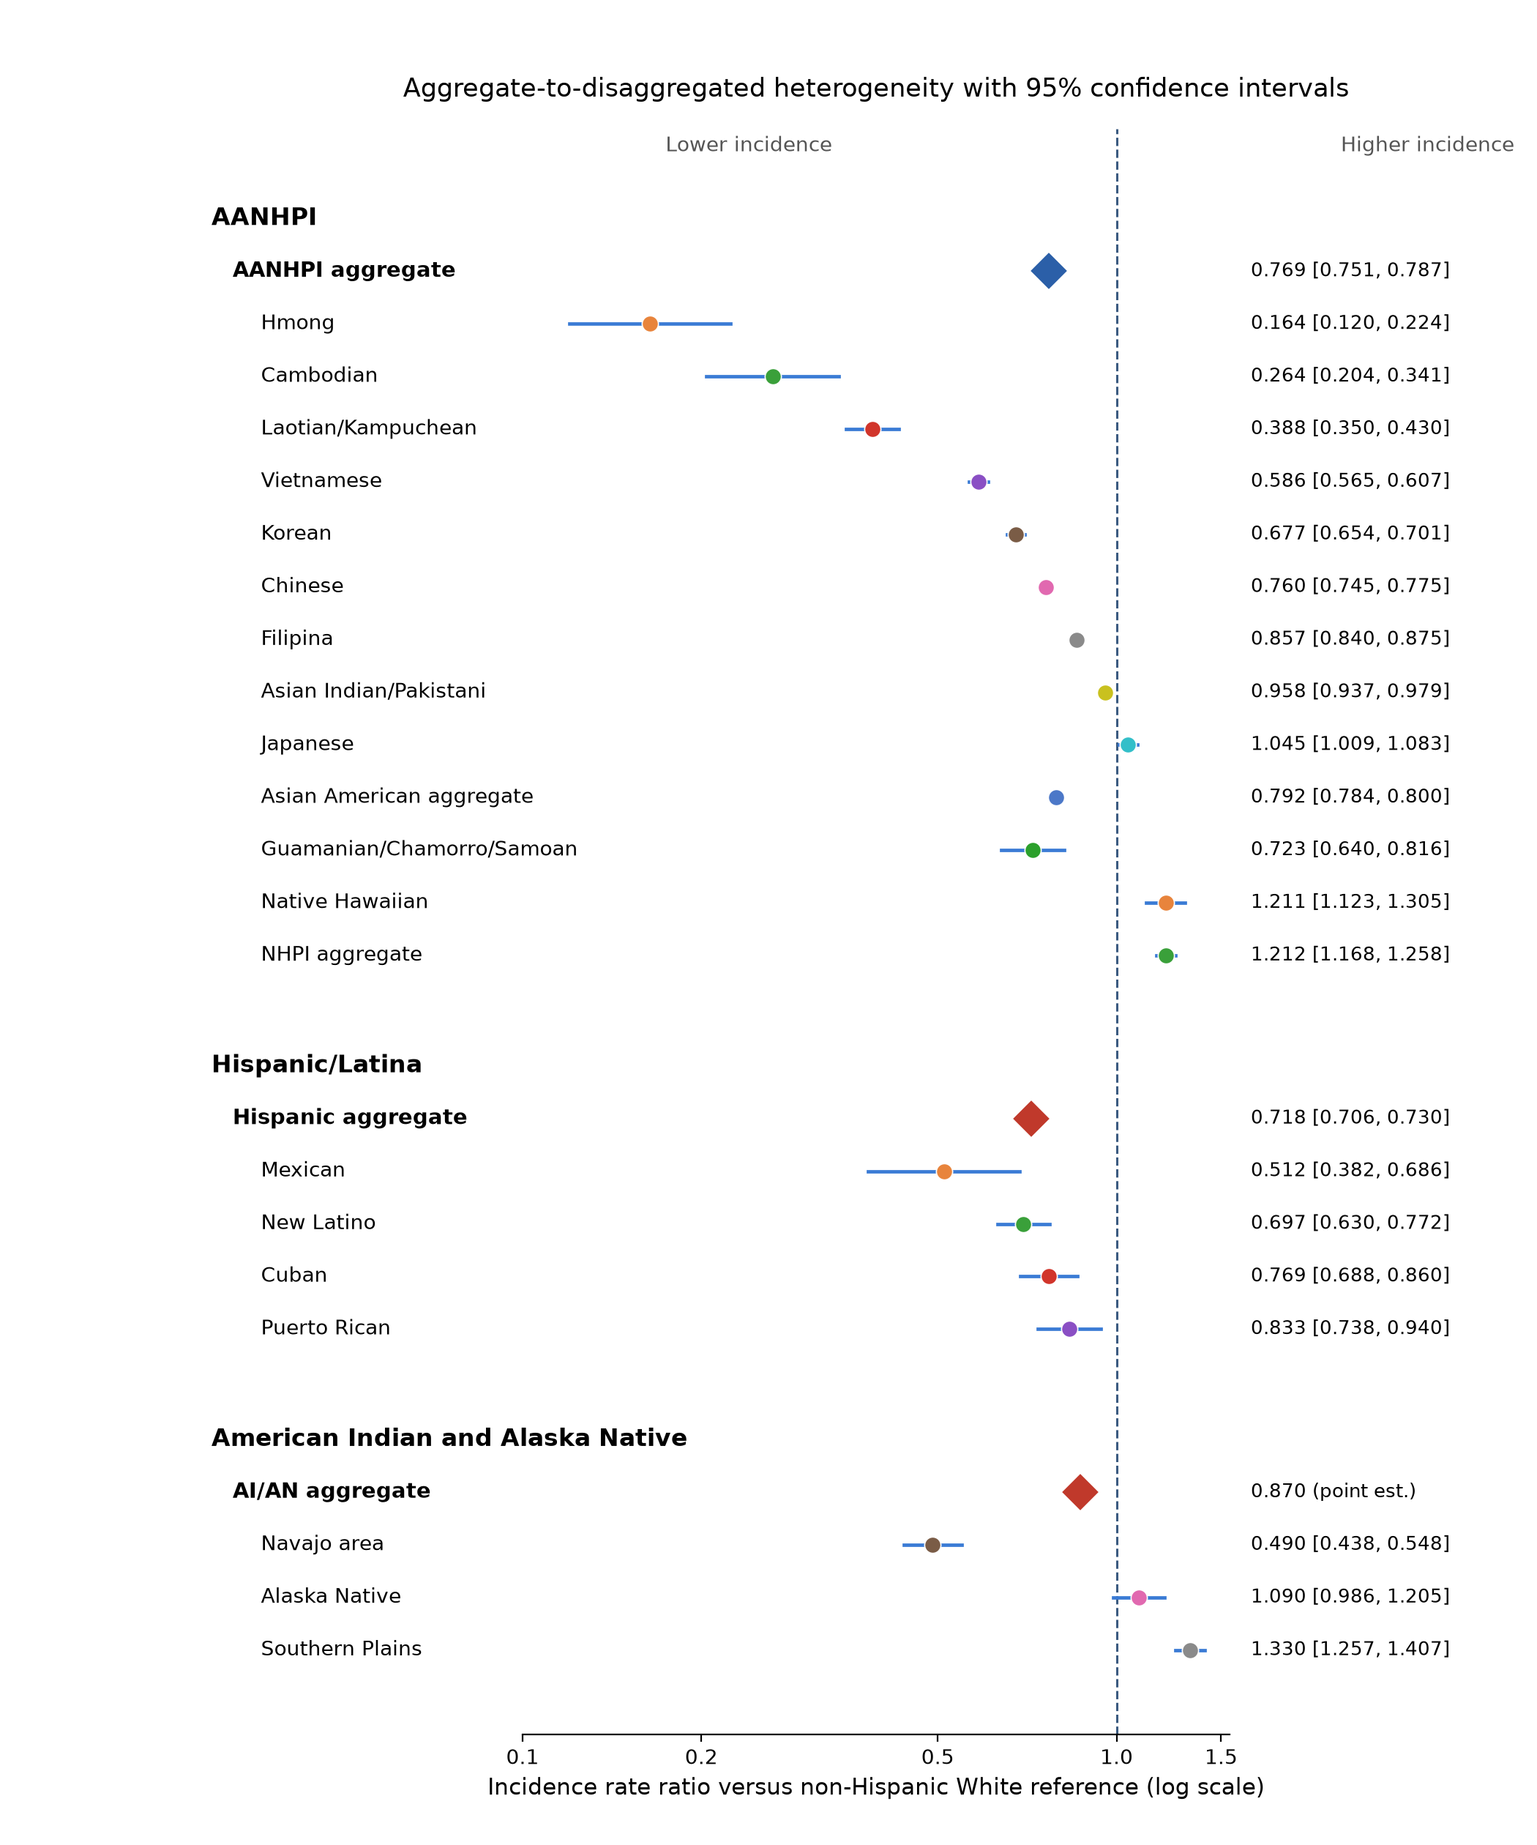
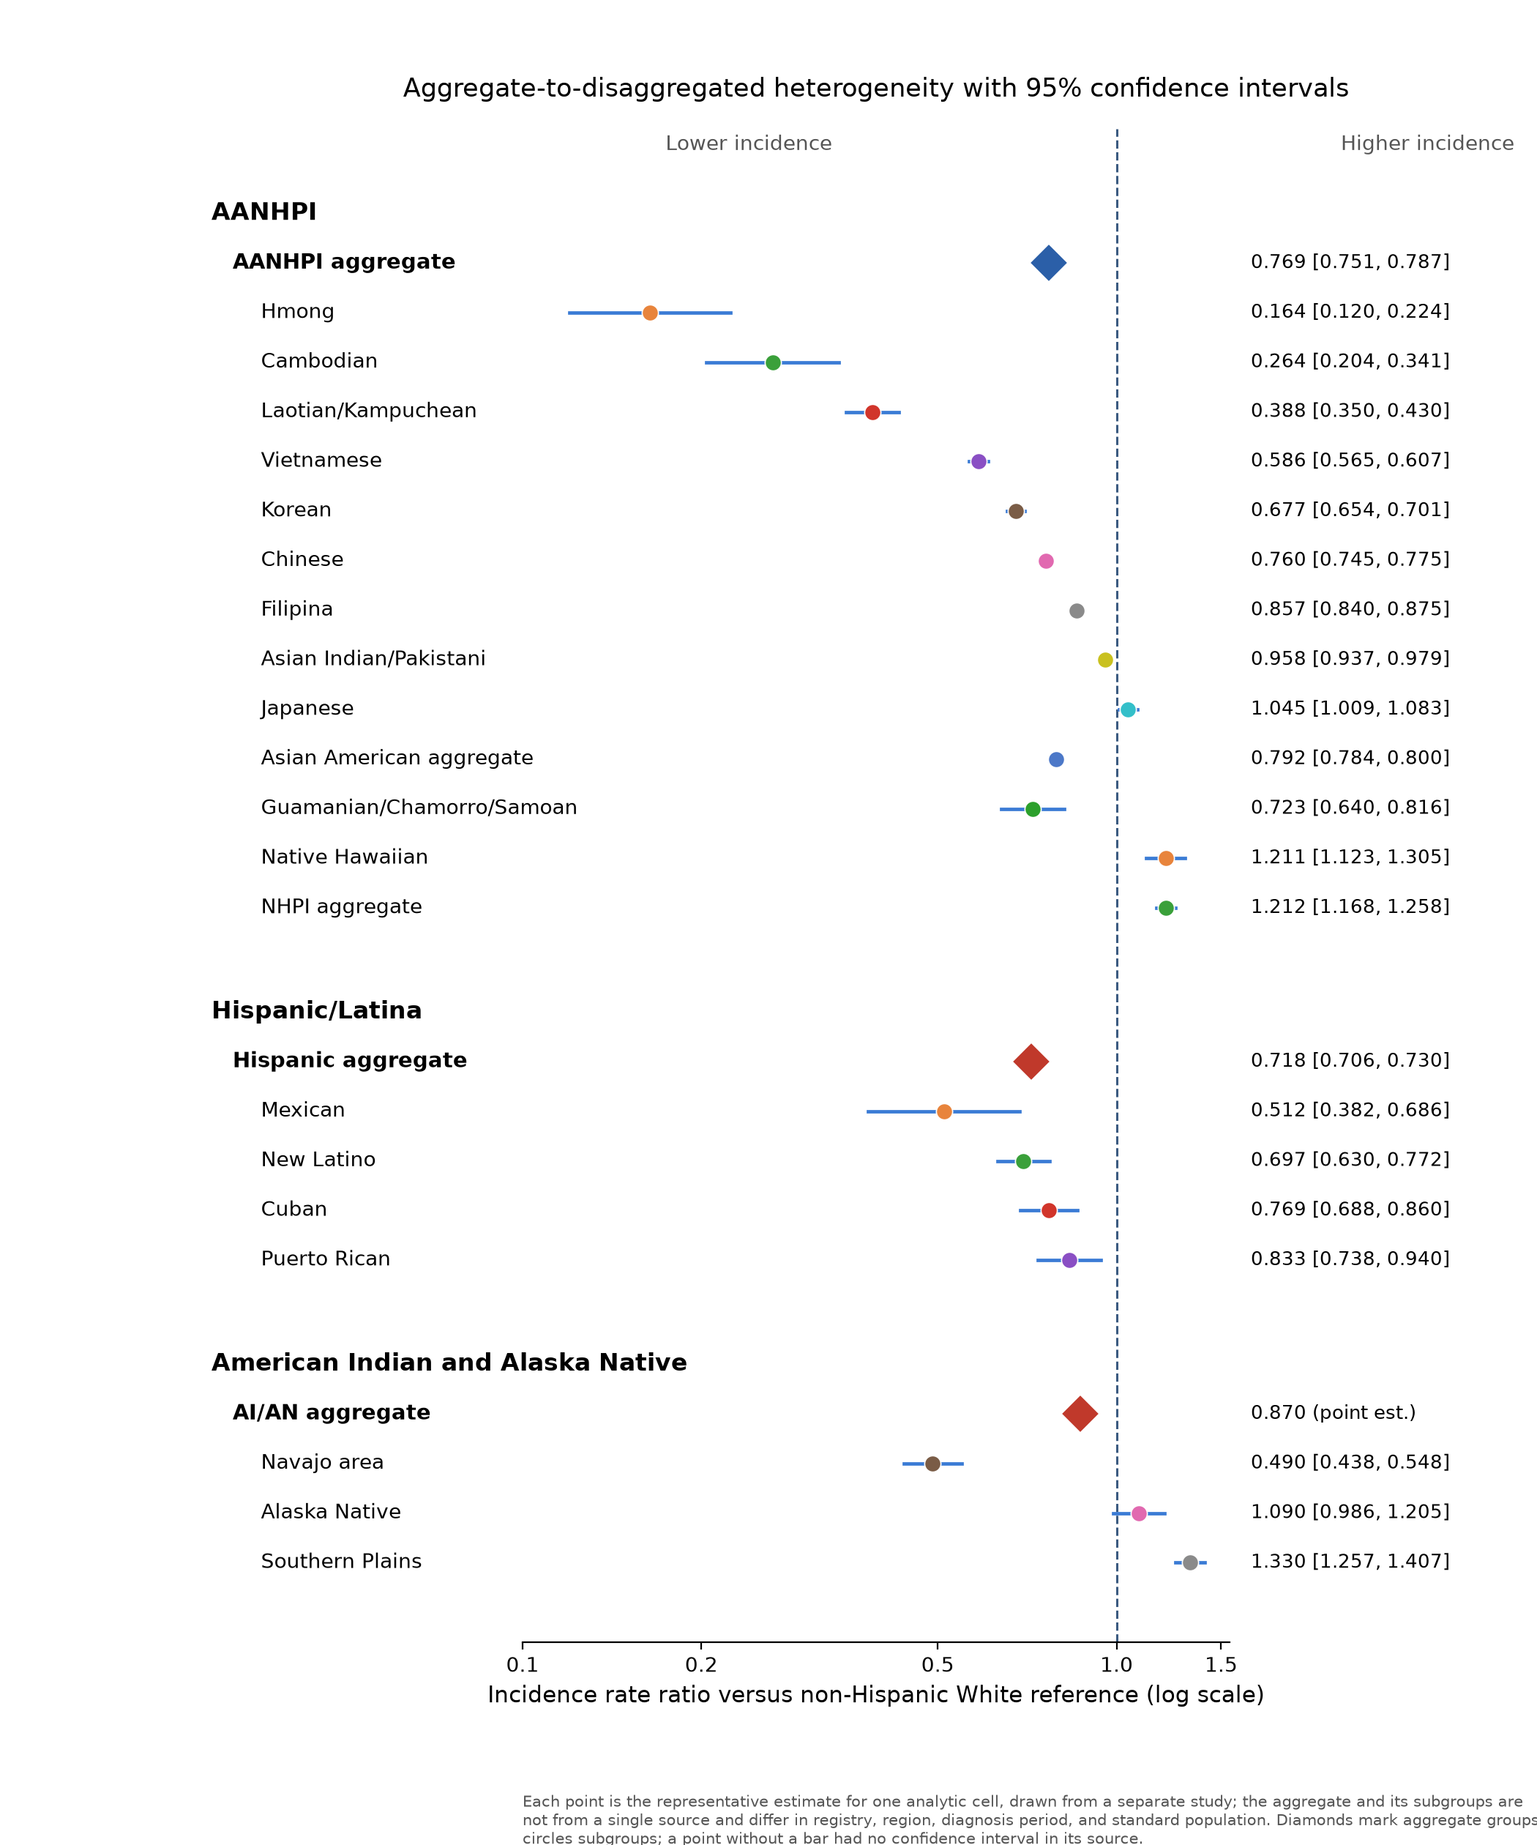
Feedback4 item 5: comparison limits and sensitivity interpretation
- Rebut "standard population cancels": Discussion now states that expressing
  incidence as an NHW ratio does not make cells commensurable — differences in
  standard population, age structure, registry region, and diagnosis period
  remain embedded in the ratios because the cells come from different studies;
  a ratio removes the shared standardization only within a cell, not across cells.
- "Contemporary benchmark" reconsidered: Methods now calls the representative a
  single population-based benchmark, not a contemporary one, noting diagnosis
  periods vary by cell and some representatives predate 2005 (Middle Eastern
  1988-2004; Cambodian/Native Hawaiian 1998-2002; Hispanic-origin 1999-2001).
- Figure 2 heterogeneous sources: added a figure note and a Discussion sentence
  that each aggregate and subgroup point is a separate study's representative,
  differing in registry, region, and period — a range of published estimates,
  not a within-study decomposition.
- Japanese direction change explained in text: the SEER-21 representative (ref 27,
  moderate RoB) puts Japanese incidence just above NHW (1.05); restricting to
  low-RoB studies substitutes an eight-state SEER+NPCR estimate (ref 49) just
  below (0.95). Noted the sign of a near-null difference is not robust, and that
  such changes reflect period/region/comparator differences, not RoB alone.

Regenerated Fig_forest_main.png and assembled manuscript; all crosschecks pass.
[…]

diff --git a/meta_agents/search_v2/forest_main.py b/meta_agents/search_v2/forest_main.py
@@ -113,6 +113,13 @@ ax.text(0.32, 1.28, "Lower incidence", transform=trans, fontsize=10, color="#555
 ax.text(1.28, 1.28, "Higher incidence", transform=trans, fontsize=10, color="#555", ha="center")
 ax.set_title("Aggregate-to-disaggregated heterogeneity with 95% confidence intervals",
              fontsize=12.5, pad=16)
+fig.text(0.34, 0.028,
+         "Each point is the representative estimate for one analytic cell, drawn from a separate "
+         "study; the aggregate and its subgroups are\nnot from a single source and differ in "
+         "registry, region, diagnosis period, and standard population. Diamonds mark aggregate "
+         "groups,\ncircles subgroups; a point without a bar had no confidence interval in its source.",
+         fontsize=7.6, color="#555", ha="left", va="top")
+fig.subplots_adjust(bottom=0.11)
 fig.savefig(os.path.join(OUT, "Fig_forest_main.png"), dpi=200)
 plt.close(fig)
 print("wrote outputs/Fig_forest_main.png")

diff --git a/meta_agents/search_v2/outputs/Manuscript_full.md b/meta_agents/search_v2/outputs/Manuscript_full.md
@@ -134,7 +134,7 @@ statistically independent. Rather than pool such non-independent
 estimates, the analytic unit was the **analytic cell**—each racial or ethnic group crossed with one
 analytic dimension (overall incidence, a disaggregated subgroup, a receptor-defined subtype, or an
 age band)—and one
-**representative population-based estimate** (a contemporary benchmark) was selected for each cell. Each estimate was assigned to a registry "family," and the registry, region, diagnosis period,
+**representative population-based estimate** (a single population-based benchmark for that cell, not a contemporary one—diagnosis periods vary by cell, and some representatives predate 2005) was selected for each cell. Each estimate was assigned to a registry "family," and the registry, region, diagnosis period,
 age range, group, and outcome of each study were tabulated so that overlaps within a cell could be
 seen (Supplementary Table 4). Within a cell, the representative was chosen by applying, in order:
 the broadest population coverage (USCS > NAACCR > SEER-national > state or regional), then a
@@ -320,7 +320,11 @@ subgroups they contain. Among Asian American subgroups the IRR ranged from 0.16 
 Japanese women; Native Hawaiian women (1.21) and the NHPI
 aggregate (1.21) exceeded the NHW rate; Hispanic incidence rose from 0.51 in Mexican women to 0.83
 in Puerto Rican women; and AI/AN incidence ranged from 0.49 in the Navajo area to 1.33 in the
-Southern Plains, against a national AI/AN aggregate of 0.87 (Figure 2). This pattern is consistent with earlier disaggregated work and extends
+Southern Plains, against a national AI/AN aggregate of 0.87 (Figure 2). In Figure 2 each aggregate
+and each subgroup is the representative estimate from a separate study, placed on the common NHW
+scale for comparison; the points are not drawn from one source and differ in registry, region, and
+diagnosis period, so the figure shows the range of published estimates rather than a within-study
+decomposition. This pattern is consistent with earlier disaggregated work and extends
 it: Gomez and colleagues first documented the variation among Asian American subgroups,⁵ which the
 present estimates span over the most recent SEER-21 period;²⁷ the high burden in Native Hawaiian
 women echoes reports from Hawaii;²¹ the Hispanic gradient reproduces that described among
@@ -328,6 +332,19 @@ first-generation U.S. Hispanics;⁸ the AI/AN regional range and the low Navajo-
 prior regional and tribal analyses;¹⁰,³⁶,⁴⁰,⁴⁴ and the higher TNBC incidence in NHB women is
 concordant with prior subtype-specific work.²,²⁰ The relative ordering of groups also shifts with
 the outcome examined (Figure 3).
+
+For the subgroups whose incidence sits close to the NHW rate, which study represents the cell can
+change the direction of the small difference. Japanese women are the clearest example: the
+representative estimate, from a recent SEER-21 source,²⁷ places their overall
+incidence just above the NHW rate (1.05), but that study is at moderate risk of bias, and when the
+representative selection is restricted to low-risk-of-bias studies the cell is instead filled by an
+earlier eight-state SEER+NPCR estimate⁴⁹ that places it just below (0.95). The flip does not
+overturn the finding that Japanese incidence is near the NHW level, but it shows that the sign of a
+near-null difference is not robust for this subgroup. Such a change on restriction reflects more than
+risk of bias: the substituted studies also differ in diagnosis period, registry region, and
+comparator, and any of these can move a borderline estimate across 1.0. The changed and dropped
+cells in the sensitivity analyses (Supplementary Table 6) should be read in that light rather than as
+risk-of-bias effects alone.
 
 Two features of the underlying data shaped these estimates.
 First, unlinked registries undercount AI/AN cases, so the AI/AN estimates here draw on Indian
@@ -364,9 +381,14 @@ not examined.
 
 The review has limitations.
 Some rate ratios were computed from published age-standardized rates rather than reported directly,
-which can move a ratio slightly. Included studies differed in standard population and diagnosis period, limiting
-direct comparability, and a few older studies used a 1970 standard population (world or US) and one
-the 1960 Segi world standard. The review was restricted to
+which can move a ratio slightly. Expressing each group's incidence as a ratio to the NHW rate does
+not by itself make the estimates commensurable: because the cells are drawn from different studies,
+differences in standard population, underlying age structure, registry region, and diagnosis period
+remain embedded in the ratios and are not cancelled by the common comparator. A ratio removes the
+shared standard-population scaling only when its numerator and denominator come from the same
+source and standardization—which holds within each cell but not across cells. Included studies
+differed in standard population and diagnosis period, limiting cross-cell comparability, and a few
+older studies used a 1970 standard population (world or US) and one the 1960 Segi world standard. The review was restricted to
 U.S.-resident populations, so the estimates are not generalizable to countries that use a different
 White reference, different racial and ethnic categories, and different standard populations. Finally,
 estimates for the smallest subgroups rested on limited numbers, studies contributing only to the

diff --git a/meta_agents/search_v2/manuscript/Discussion_draft.md b/meta_agents/search_v2/manuscript/Discussion_draft.md
@@ -20,7 +20,11 @@ subgroups they contain. Among Asian American subgroups the IRR ranged from 0.16 
 Japanese women; Native Hawaiian women (1.21) and the NHPI
 aggregate (1.21) exceeded the NHW rate; Hispanic incidence rose from 0.51 in Mexican women to 0.83
 in Puerto Rican women; and AI/AN incidence ranged from 0.49 in the Navajo area to 1.33 in the
-Southern Plains, against a national AI/AN aggregate of 0.87 (Figure 2). This pattern is consistent with earlier disaggregated work and extends
+Southern Plains, against a national AI/AN aggregate of 0.87 (Figure 2). In Figure 2 each aggregate
+and each subgroup is the representative estimate from a separate study, placed on the common NHW
+scale for comparison; the points are not drawn from one source and differ in registry, region, and
+diagnosis period, so the figure shows the range of published estimates rather than a within-study
+decomposition. This pattern is consistent with earlier disaggregated work and extends
 it: Gomez and colleagues first documented the variation among Asian American subgroups,⁵ which the
 present estimates span over the most recent SEER-21 period;²⁷ the high burden in Native Hawaiian
 women echoes reports from Hawaii;²¹ the Hispanic gradient reproduces that described among
@@ -28,6 +32,19 @@ first-generation U.S. Hispanics;⁸ the AI/AN regional range and the low Navajo-
 prior regional and tribal analyses;¹⁰,³⁶,⁴⁰,⁴⁴ and the higher TNBC incidence in NHB women is
 concordant with prior subtype-specific work.²,²⁰ The relative ordering of groups also shifts with
 the outcome examined (Figure 3).
+
+For the subgroups whose incidence sits close to the NHW rate, which study represents the cell can
+change the direction of the small difference. Japanese women are the clearest example: the
+representative estimate, from a recent SEER-21 source,²⁷ places their overall
+incidence just above the NHW rate (1.05), but that study is at moderate risk of bias, and when the
+representative selection is restricted to low-risk-of-bias studies the cell is instead filled by an
+earlier eight-state SEER+NPCR estimate⁴⁹ that places it just below (0.95). The flip does not
+overturn the finding that Japanese incidence is near the NHW level, but it shows that the sign of a
+near-null difference is not robust for this subgroup. Such a change on restriction reflects more than
+risk of bias: the substituted studies also differ in diagnosis period, registry region, and
+comparator, and any of these can move a borderline estimate across 1.0. The changed and dropped
+cells in the sensitivity analyses (Supplementary Table 6) should be read in that light rather than as
+risk-of-bias effects alone.
 
 Two features of the underlying data shaped these estimates.
 First, unlinked registries undercount AI/AN cases, so the AI/AN estimates here draw on Indian
@@ -64,9 +81,14 @@ not examined.
 
 The review has limitations.
 Some rate ratios were computed from published age-standardized rates rather than reported directly,
-which can move a ratio slightly. Included studies differed in standard population and diagnosis period, limiting
-direct comparability, and a few older studies used a 1970 standard population (world or US) and one
-the 1960 Segi world standard. The review was restricted to
+which can move a ratio slightly. Expressing each group's incidence as a ratio to the NHW rate does
+not by itself make the estimates commensurable: because the cells are drawn from different studies,
+differences in standard population, underlying age structure, registry region, and diagnosis period
+remain embedded in the ratios and are not cancelled by the common comparator. A ratio removes the
+shared standard-population scaling only when its numerator and denominator come from the same
+source and standardization—which holds within each cell but not across cells. Included studies
+differed in standard population and diagnosis period, limiting cross-cell comparability, and a few
+older studies used a 1970 standard population (world or US) and one the 1960 Segi world standard. The review was restricted to
 U.S.-resident populations, so the estimates are not generalizable to countries that use a different
 White reference, different racial and ethnic categories, and different standard populations. Finally,
 estimates for the smallest subgroups rested on limited numbers, studies contributing only to the
@@ -88,4 +110,4 @@ analytic cell rather than a pooled figure.
 Superscript numbers refer to the unified reference list (`manuscript/References_draft.md`):
 2 Howlader 2014, 5 Gomez 2010, 8 Pinheiro 2009, 9 Keegan 2010, 10 Espey 2007, 20 Sung 2023,
 21 Loo 2019, 27 Gomez 2026, 29 Kong 2020, 34 Watanabe-Galloway 2015, 36 Gopalani 2020,
-40 Yazzie 2025, 44 Melkonian 2019, 48 Melkonian 2021.
+40 Yazzie 2025, 44 Melkonian 2019, 48 Melkonian 2021, 49 Jin 2016.

diff --git a/meta_agents/search_v2/outputs/Feedback4_response.md b/meta_agents/search_v2/outputs/Feedback4_response.md
@@ -65,8 +65,22 @@
   - **rec 169(Ellington)·49(Mills)·3267(Kem)**: 원문이 rate CI/SE를 제공하지 않아(rate+AAPC 또는 count만) 총사건수 Poisson 근사 불가피 → **근사임을 Methods와 DERIVATIONS §3에 명시**("age-standardized rate를 총사건수 분산으로 근사, age별 가중 미반영; 원문 rate SE/CI 부재 시에만 사용"). count조차 없으면 점추정으로.
   - DERIVATIONS의 부정확한 "rec 203, rec 182" 표기 정정(rec 203은 directly-reported-IRR).
 
-## 항목 5. 연구 간 비교 한계·민감도 해석 반영 — ⬜ 예정
-"standard population largely cancels" 수정, "contemporary benchmark" 재검토, Figure 2에 이질 출처 명시, Japanese 등 방향전환 설명.
+## 항목 5. 연구 간 비교 한계·민감도 해석 반영 — ✅ 완료
+- **① "표준인구 상쇄" 취지 수정(Discussion 한계)**: "NHW 비율로 바꿔도 표준인구·연령구조·지역·기간
+  차이는 비율 안에 남으며 공통 비교군으로 상쇄되지 않는다. 비율이 표준인구 스케일을 제거하는 것은
+  분자·분모가 같은 출처·표준화일 때뿐이며, 이는 셀 내부에서만 성립하고 셀 간에는 성립하지 않는다"를
+  명시.
+- **② "contemporary benchmark" 재검토(Methods)**: 대표 중 오래된 기간(Middle Eastern 1988-2004,
+  Cambodian·Native Hawaiian 1998-2002, Hispanic-origin 1999-2001 등 2005년 이전)이 있어
+  "a single population-based benchmark ... not a contemporary one—diagnosis periods vary by cell,
+  and some representatives predate 2005"로 수정.
+- **③ Figure 2 이질 출처 명시**: forest 그림에 각주 추가("각 점은 별도 연구의 셀 대표값이며 aggregate와
+  subgroup은 단일 출처가 아니고 registry·지역·기간·표준인구가 다름; 다이아=aggregate, 원=subgroup,
+  막대 없음=원문 CI 없음")하고 Discussion 본문에도 동일 취지 문장 추가.
+- **④ Japanese 방향전환 본문 설명(+⑤)**: "대표 Gomez 2026 SEER-21(Moderate RoB)=1.05(NHW 위) →
+  low-RoB 제한 시 Jin 2016 8-state SEER+NPCR=0.95(NHW 아래)로 부호 전환. near-null 차이의 부호가
+  견고하지 않음을 보이며, 이 변화는 RoB뿐 아니라 대체 연구의 기간·지역·비교군 차이도 반영한다.
+  Supplementary Table 6의 changed/dropped 셀도 RoB 단독 효과가 아니라 그 관점에서 읽어야 함"을 추가.
 
 ## 항목 6. 서술적 종합·검토 절차 보고 완성 — ⬜ 예정
 narrative 112편 주제별 정리+근거 연결, LLM 모델·역할·재검토 표본·누락 보고, PROSPERO 상태 정리, JBI Q9 표기 정합·RoB 판정 기준.

diff --git a/meta_agents/search_v2/manuscript/Methods_draft.md b/meta_agents/search_v2/manuscript/Methods_draft.md
@@ -97,7 +97,7 @@ statistically independent. Rather than pool such non-independent
 estimates, the analytic unit was the **analytic cell**—each racial or ethnic group crossed with one
 analytic dimension (overall incidence, a disaggregated subgroup, a receptor-defined subtype, or an
 age band)—and one
-**representative population-based estimate** (a contemporary benchmark) was selected for each cell. Each estimate was assigned to a registry "family," and the registry, region, diagnosis period,
+**representative population-based estimate** (a single population-based benchmark for that cell, not a contemporary one—diagnosis periods vary by cell, and some representatives predate 2005) was selected for each cell. Each estimate was assigned to a registry "family," and the registry, region, diagnosis period,
 age range, group, and outcome of each study were tabulated so that overlaps within a cell could be
 seen (Supplementary Table 4). Within a cell, the representative was chosen by applying, in order:
 the broadest population coverage (USCS > NAACCR > SEER-national > state or regional), then a
